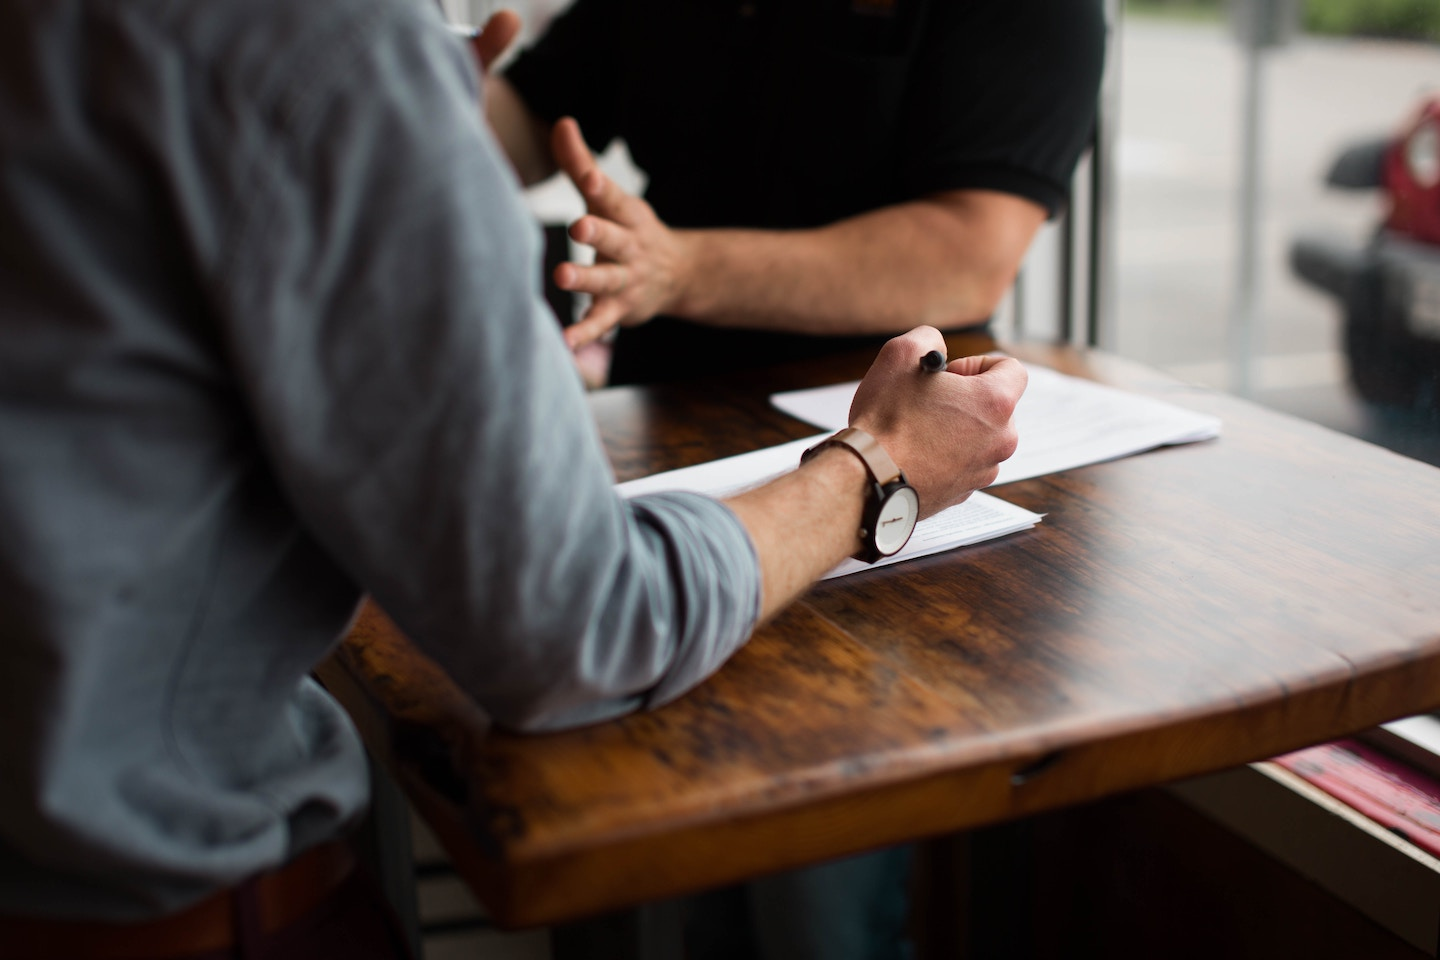
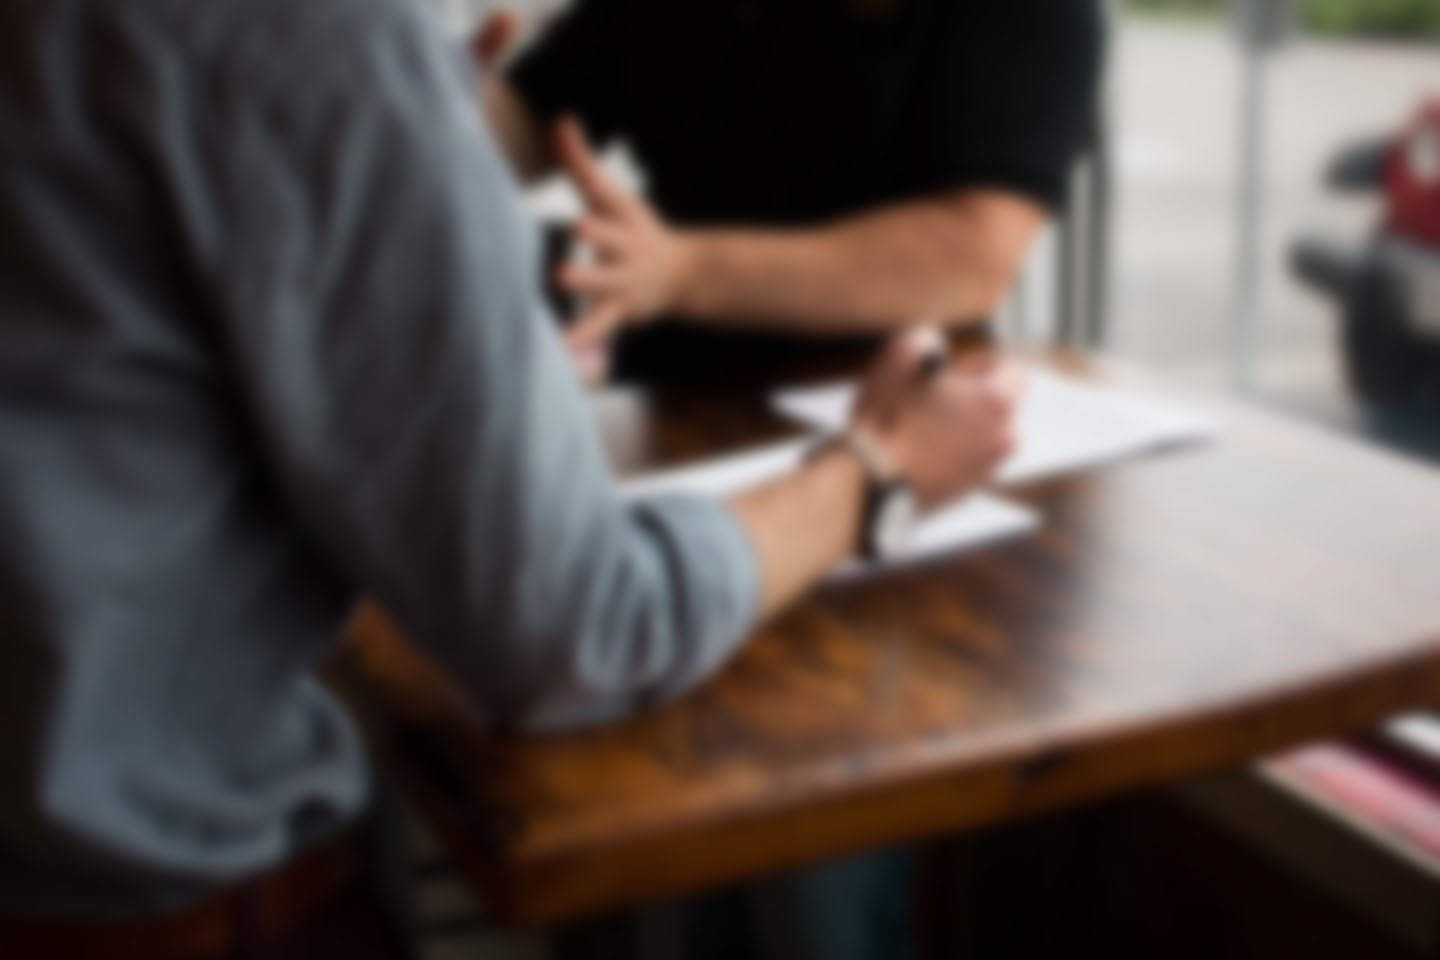
added blur to images, fixed box background color

diff --git a/site/theme/scss/main.scss b/site/theme/scss/main.scss
@@ -123,3 +123,7 @@ body {
   }
 
 }
+
+.box {
+  background: rgba(0, 0, 0, 0.667);
+}
